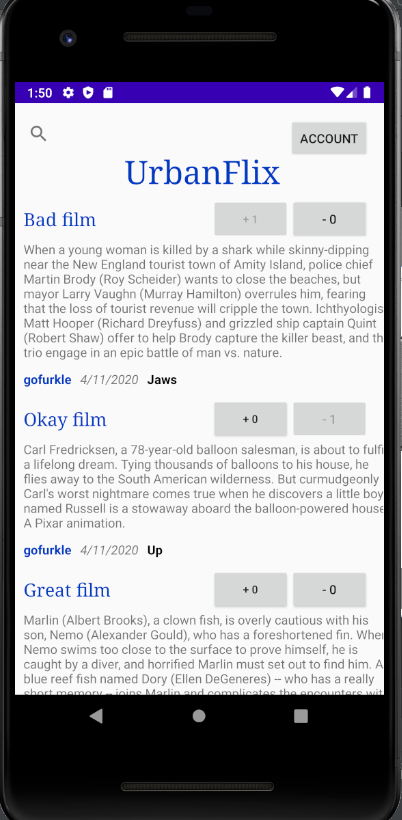
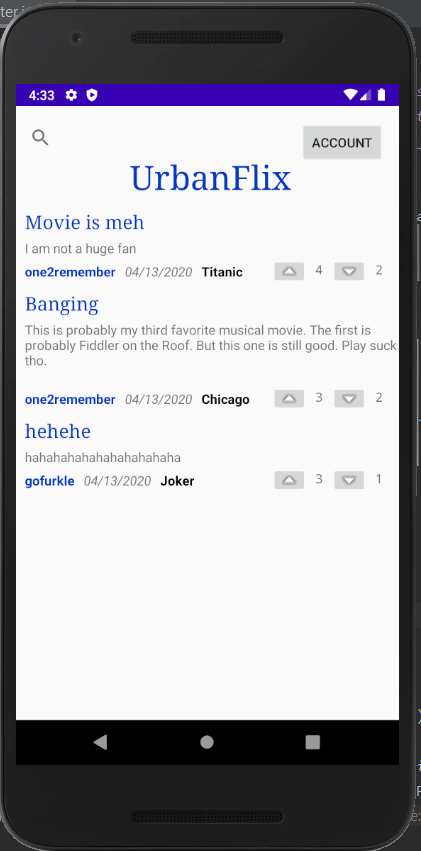
added color changes

diff --git a/app/src/main/java/com/example/myurbanflix/MovieReviewAdapter.java b/app/src/main/java/com/example/myurbanflix/MovieReviewAdapter.java
@@ -3,6 +3,7 @@ package com.example.myurbanflix;
 import android.content.Context;
 import android.content.SharedPreferences;
 import android.content.res.Resources;
+import android.graphics.Color;
 import android.util.Log;
 import android.view.LayoutInflater;
 import android.view.View;
@@ -103,6 +104,14 @@ public class MovieReviewAdapter extends FirestoreAdapter<MovieReviewAdapter.View
             final boolean upvoted = upvoteValue == MainActivity.UPVOTED;
             final boolean downvoted = upvoteValue == MainActivity.DOWNVOTED;
 
+            // set default button colors
+            if(upvoted) {
+                upButton.setColorFilter(Color.argb(255,13, 59, 195));
+            }
+            if(downvoted) {
+                downButton.setColorFilter(Color.argb(255,13, 59, 195));
+            }
+
             /* ~~~~~~~~~~~~~~~~~~~~~~~~~~~ UPBUTTON CODE ~~~~~~~~~~~~~~~~~~~~~~~~~~~~~~~~~~~~*/
 
             // enable/disable upButton based on if user is logged in and if theyve upvoted already
@@ -112,40 +121,44 @@ public class MovieReviewAdapter extends FirestoreAdapter<MovieReviewAdapter.View
             else {
                 upButton.setEnabled(false);
             }
-            // attach on click listener for upvote button
+            /**
+             * sets heavily loaded onclick listener to upvote button to behave like a reddit
+             * upvote button
+             */
             upButton.setOnClickListener( new View.OnClickListener() {
                 public void onClick(View v) {
-                    MovieReview review = snapshot.toObject(MovieReview.class); // hopefully i can remove this later
-
+                    // grab a reference to our review for easy field checking
+                    MovieReview review = snapshot.toObject(MovieReview.class);
                     // if item was previously downvoted
                     if(downvoted) {
                         downButton.setEnabled(true);   // enable the upvote button
                         downButton.setClickable(true);
-                        // TODO: remove a downvote from the item in the database
-                        int curDownvotes = 0;
 //                        try {
 //                            curDownvotes = Integer.parseInt(getFieldValue("reviews", review_id, "downvotes"));
 //                        } catch (InterruptedException e) {
 //                            e.printStackTrace();
 //                        }
-
-                        curDownvotes = review.getDownvotes();
-                        updateVotes("reviews", review_id, "downvotes", curDownvotes - 1);
+                        // set tint of downvoted button to white (default)
+                        // set downvote button to white as it is now clickable
+                        downButton.setColorFilter(Color.argb(255,255,255,255));
+                        // update the database
+                        updateVotes("reviews", review_id, "downvotes", review.getDownvotes() - 1);
                     }
                     // set shared preferences so it is upvoted
                     SharedPreferences.Editor prefEditor = myPrefs.edit();
                     prefEditor.putInt(review_id, MainActivity.UPVOTED);
                     prefEditor.apply();
                     upButton.setEnabled(false);  // disable the upvote button
-                    // TODO: add an upvote to the item on the database
-                    int curUpvotes = 0;
 //                    try {
 //                        curUpvotes = Integer.parseInt(getFieldValue("reviews", review_id, "upvotes"));
 //                    } catch (InterruptedException e) {
 //                        e.printStackTrace();
 //                    }
-                    curUpvotes = review.getUpvotes();
-                    updateVotes("reviews", review_id, "upvotes", curUpvotes + 1);
+                    // set tint of upvoted button to blue
+                    // set upvote to blue as it is now unclickable
+                    upButton.setColorFilter(Color.argb(255,13, 59, 195));
+                    // update the database
+                    updateVotes("reviews", review_id, "upvotes", review.getUpvotes() + 1);
                 }
             });
 
@@ -158,40 +171,44 @@ public class MovieReviewAdapter extends FirestoreAdapter<MovieReviewAdapter.View
             else {
                 downButton.setEnabled(false);
             }
-            // attach on click listener for downvote button
+            /**
+             * sets heavily loaded onclick listener to downvote button to behave like a reddit
+             * downvote button
+             */
             downButton.setOnClickListener( new View.OnClickListener() {
-
-                MovieReview review = snapshot.toObject(MovieReview.class); // hopefully i can remove this later
-
+                // grab a reference to our review for easy field checking
+                MovieReview review = snapshot.toObject(MovieReview.class);
                 public void onClick(View v) {
                     // if item was previously upvoted
                     if(upvoted) {
                         upButton.setEnabled(true);   // enable the upvote button
                         upButton.setClickable(true);
-                        // TODO: remove upvote from the item in the database
-                        int curUpvotes = 0;
 //                        try {
 //                            curUpvotes = Integer.parseInt(getFieldValue("reviews", review_id, "upvotes"));
 //                        } catch (InterruptedException e) {
 //                            e.printStackTrace();
 //                        }
-                        curUpvotes = review.getUpvotes();
-                        updateVotes("reviews", review_id, "upvotes", curUpvotes - 1);
+                        // set tint of downvoted button to white (default)
+                        // set the upvote button to white as it is now clickable
+                        upButton.setColorFilter(Color.argb(255,255,255,255));
+                        // update the data in our database
+                        updateVotes("reviews", review_id, "upvotes", review.getUpvotes() - 1);
                     }
-                    // set shared preferences so it is dowvoted
+                    // set shared preferences so it is downvoted
                     SharedPreferences.Editor prefEditor = myPrefs.edit();
                     prefEditor.putInt(review_id, MainActivity.DOWNVOTED);
                     prefEditor.apply();
                     downButton.setEnabled(false);  // disable the downvote button
-                    // TODO: add a downvote to the item on the database
-                    int curDownvotes = 0;
 //                        try {
 //                            curDownvotes = Integer.parseInt(getFieldValue("reviews", review_id, "downvotes"));
 //                        } catch (InterruptedException e) {
 //                            e.printStackTrace();
 //                        }
-                    curDownvotes = review.getDownvotes();
-                    updateVotes("reviews", review_id, "downvotes", curDownvotes + 1);
+                    // set downvoted color to blue
+                    // set downvote button to blue as it is now unclickable
+                    downButton.setColorFilter(Color.argb(255,13, 59, 195));
+                    // update the data in our database
+                    updateVotes("reviews", review_id, "downvotes", review.getDownvotes() + 1);
                 }
             });
         }
